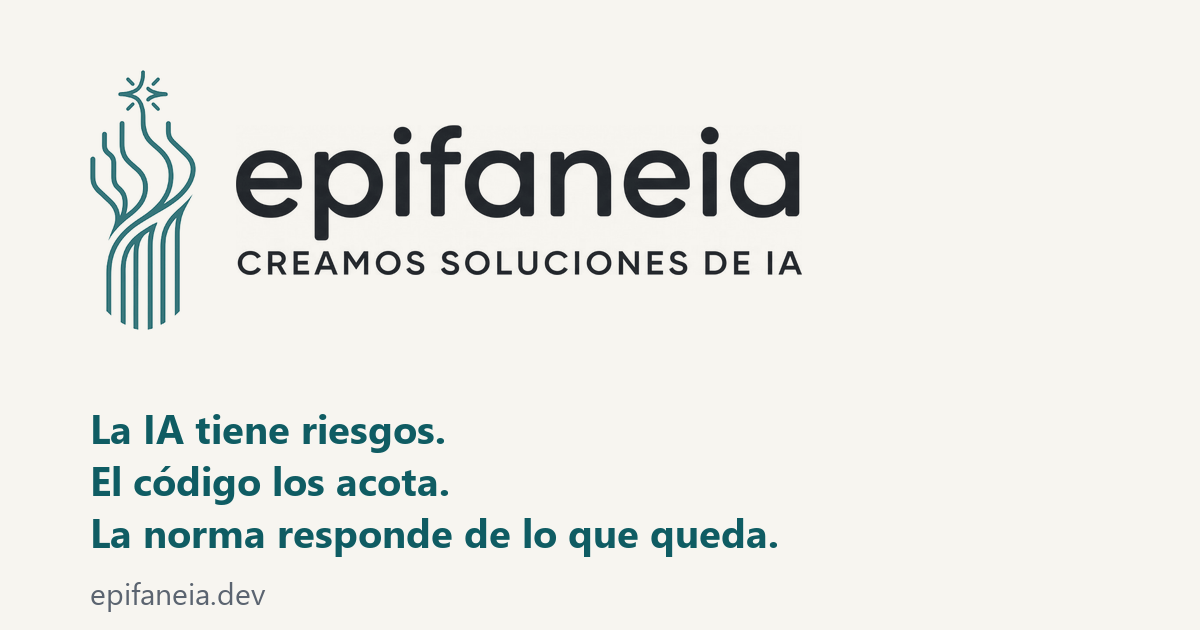
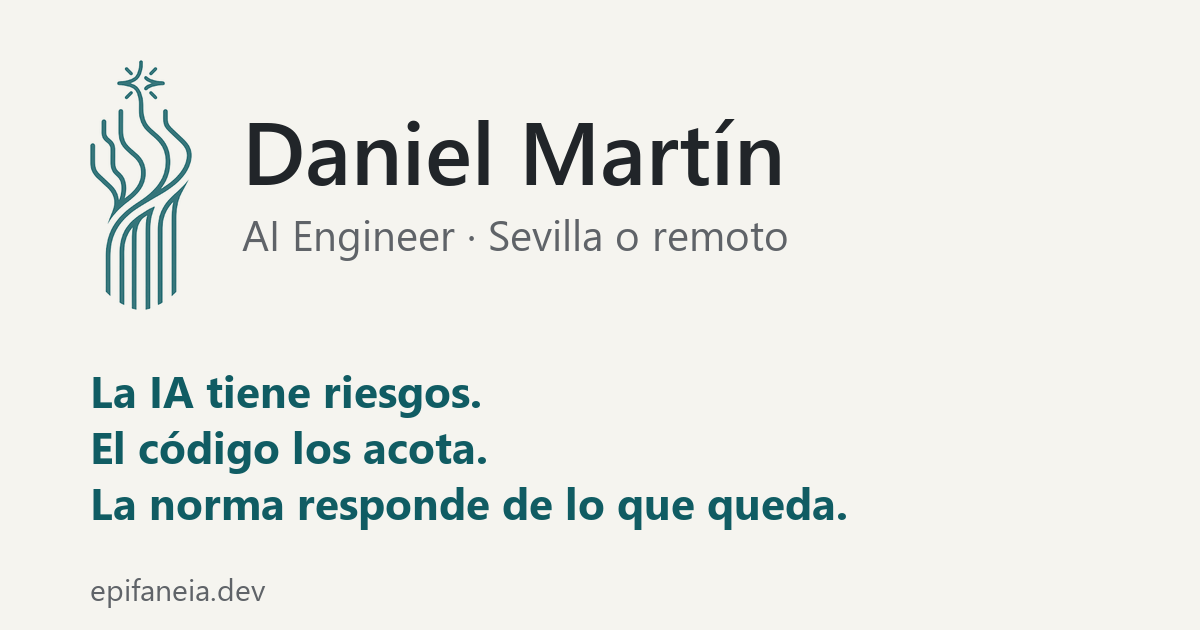
Header and link preview without the agency slogan
Icon only in the home header; og.png shows name, role and motto.
servicios.html keeps the full wordmark.

Changed region(s): [[0.0617, 0.0905, 0.6783, 0.5127], [0.0617, 0.6032, 0.7092, 0.8746], [0.0617, 0.9048, 0.2158, 0.9651]]

diff --git a/index.html b/index.html
@@ -178,7 +178,7 @@ footer .sutil a{color:#8a8f96}
 
 <header>
 <div class="wrap">
-  <a class="logo" href="#top" style="display:flex;align-items:center;gap:10px"><img src="logo-icono.png" alt="" style="height:38px;display:block"><img src="logo-wordmark.png" alt="epifaneia" style="height:34px;display:block"></a>
+  <a class="logo" href="#top" style="display:flex;align-items:center;gap:10px"><img src="logo-icono.png" alt="epifaneia · inicio" style="height:38px;display:block"></a>
   <nav>
     <a href="#niveles"><span class="es">Tres niveles</span><span class="en">Three levels</span></a>
     <a href="#pasos"><span class="es">Cinco pasos</span><span class="en">Five steps</span></a>
